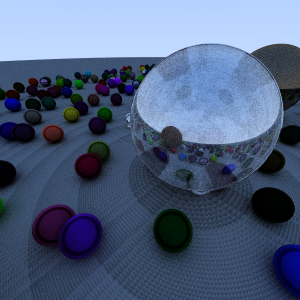
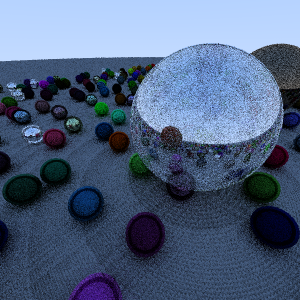
Now we are really parallel

diff --git a/src/main.rs b/src/main.rs
@@ -24,7 +24,7 @@ use rand::prelude::Rng;
 
 const WIDHT: usize = 300;
 const HEIGHT: usize = 300;
-const SAMPLES: usize = 100;
+const SAMPLES: usize = 10;
 const RATIO: f32 = WIDHT as f32 / HEIGHT as f32;
 const TTL: i32 = 1024;
 
@@ -90,8 +90,9 @@ fn raytrace(world: &[Shape], camera: Camera, ambient_light: Vec3) -> Vec<Vec3> {
 
     let res = Arc::new(Mutex::new(vec![Vec3::zero(); HEIGHT * WIDHT]));
 
-    (0..SAMPLES).into_par_iter().for_each(|_| {
-        let sample = (0..(HEIGHT * WIDHT)).into_iter().map(|idx| {
+    (0..SAMPLES).into_par_iter().for_each(|i| {
+        optick::register_thread(&format!("thread {}", i));
+        let sample : Vec<_> = (0..(HEIGHT * WIDHT)).into_iter().map(|idx| {
             let mut rng = rand::thread_rng();
             let f = idx / WIDHT;
             let c = idx % WIDHT;
@@ -101,10 +102,11 @@ fn raytrace(world: &[Shape], camera: Camera, ambient_light: Vec3) -> Vec<Vec3> {
             let ray = camera.get_pixel(x_offset, y_offset);
 
             ray.bounce(world, ambient_light, TTL)
-        });
+        }).collect();
+        
         let mut res = res.lock().unwrap();
-        for (idx, pixel) in sample.enumerate() {
-            res[idx] = res[idx] + pixel;
+        for (idx, pixel) in sample.iter().enumerate() {
+            res[idx] = res[idx] + *pixel;
         }
     });
 
